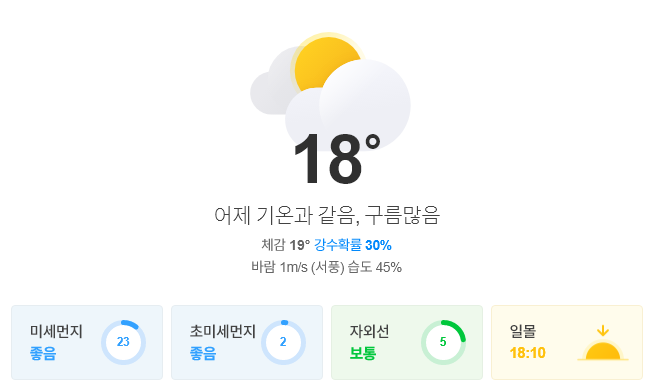
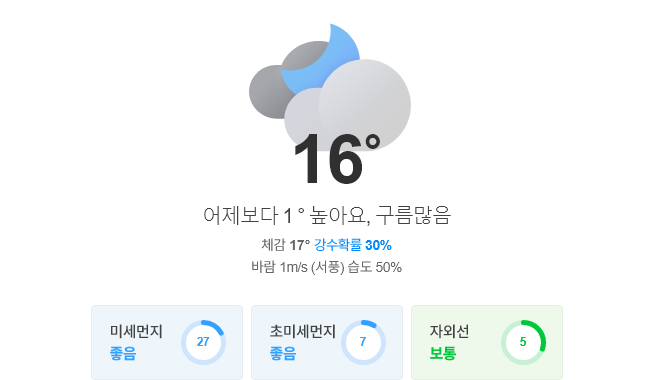
update result

diff --git a/README.md b/README.md
@@ -1,5 +1,5 @@
-##  2020-10-05 16:07:24   월요일 
-##### 날씨   -   어제 기온과 같음, 구름많음
+##  2020-10-05 18:17:13   월요일 
+##### 날씨   -   어제보다 1 ° 높아요, 구름많음
 <center><img src="../img/naver_weather_week.png"></center>
 ----
 ----
@@ -17,13 +17,13 @@
 <tr align = "right" > <td>NASDAQ</td><td>11,075.02</td><td>-251.49</td><td><font size="3" color="blue" >-2.22%</font></td><td><font size="3" color="black">0</font></td><td><font size="3" color="black">0</font></td><td>0</td>  </tr>
 <tr align = "right" > <td>S&P</td><td>3,348.44</td><td>-32.36</td><td><font size="3" color="blue" >-0.96%</font></td><td><font size="3" color="black">0</font></td><td><font size="3" color="black">0</font></td><td>0</td>  </tr>
 <tr align = "right" > <td>SHANHAI</td><td>3,218.05</td><td>-6.31</td><td><font size="3" color="blue" >-0.2%</font></td><td><font size="3" color="black">0</font></td><td><font size="3" color="black">0</font></td><td>0</td>  </tr>
-<tr align = "right" > <td>INDIA</td><td>39,123.98</td><td>426.93</td><td><font size="3" color="red" >1.1%</font></td><td><font size="3" color="black">0</font></td><td><font size="3" color="black">0</font></td><td>0</td>  </tr>
+<tr align = "right" > <td>INDIA</td><td>39,064.22</td><td>367.17</td><td><font size="3" color="red" >0.95%</font></td><td><font size="3" color="black">0</font></td><td><font size="3" color="black">0</font></td><td>0</td>  </tr>
 </table>
 ----
 ##### 시장
 <table border="1" bordercolor="blue" align = "center" >
 <tr align = "right" > <td>Item</td><td>Price</td><td>Diff</td><td>Rate</td><td>Buy</td><td>Sell</td><td>...</td>  </tr>
-<tr align = "right" > <td>USD</td><td>1,163.0</td><td>-6.0</td><td><font size="3" color="blue">-0.51%</font></td><td><font size="3" color="black">1,150</font></td><td><font size="3" color="black">0</font></td><td>0</td>  </tr>
+<tr align = "right" > <td>USD</td><td>1,161.0</td><td>-7.5</td><td><font size="3" color="blue">-0.64%</font></td><td><font size="3" color="black">1,150</font></td><td><font size="3" color="black">0</font></td><td>0</td>  </tr>
 <tr align = "right" > <td>WTI</td><td>37.05</td><td>-1.67</td><td><font size="3" color="blue">-4.31%</font></td><td><font size="3" color="black">29.0</font></td><td><font size="3" color="black">0</font></td><td>0</td>  </tr>
 <tr align = "right" > <td>GOLD</td><td>1,900.0</td><td>-8.2</td><td><font size="3" color="blue">-0.42%</font></td><td><font size="3" color="black">0</font></td><td><font size="3" color="black">0</font></td><td>0</td>  </tr>
 </table>
